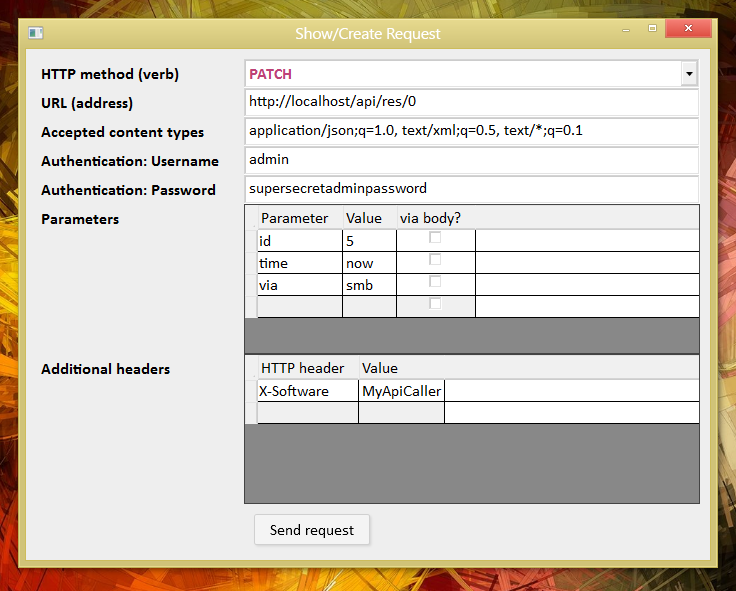
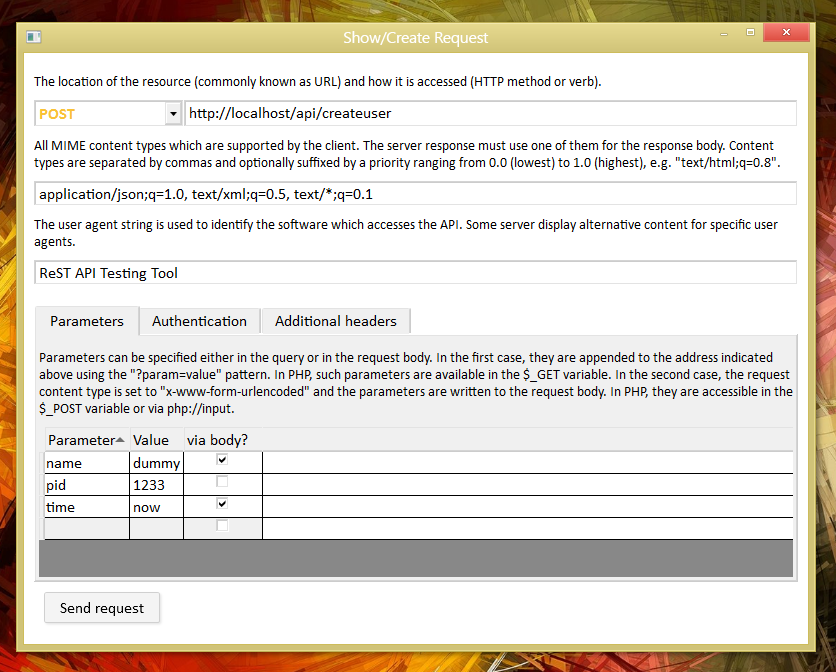
Updated screenshots and README to match the latest release

diff --git a/README.md b/README.md
@@ -4,6 +4,7 @@ This simple tool allows you to quickly specify a HTTP request and inspect the re
 
 ## Features
 
+* User-friendly GUI with a lot of explanations
 * Uses asynchronous programming (`async`/`await`)
 * Respects MVVM pattern
 * Well-documented code
@@ -15,3 +16,5 @@ This simple tool allows you to quickly specify a HTTP request and inspect the re
 <img src="Screenshots/response.png" />
 
 <img src="Screenshots/request.png" />
+
+<img src="Screenshots/request-method.png" />
